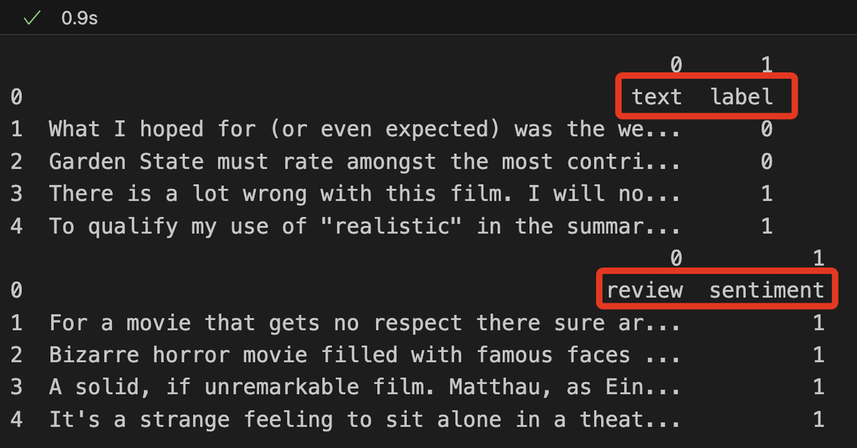
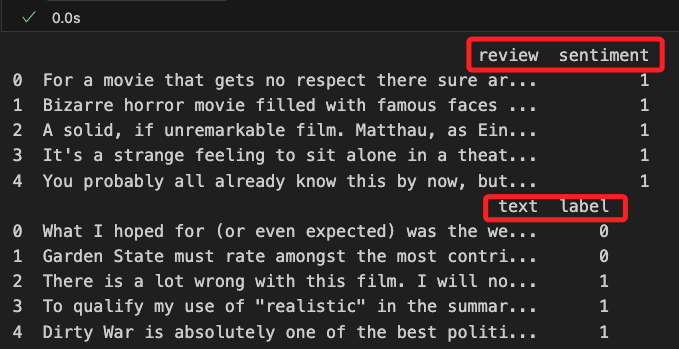
Commit on 2024-11-07 16:16:59

diff --git a/01_課程筆記/00_Lab/94020/Lab 4.1_Implementing Sentiment Analysis/01_官方範例/01_實作.md b/01_課程筆記/00_Lab/94020/Lab 4.1_Implementing Sentiment Analysis/01_官方範例/01_實作.md
@@ -538,8 +538,8 @@ _與範例數據集比較_
 4. 透過代碼觀察，結果顯示數據的內容與欄位不一樣，但格式是相同的，並且資料筆數 `50,000` 也相同。
 
     ```python
-    df = pd.read_csv('imdb_0.csv', header=0)
-    df
+    df_0 = pd.read_csv('imdb_0.csv', header=0)
+    df_0
     ```
 
     ![](images/img_04.png)
@@ -549,11 +549,8 @@ _與範例數據集比較_
 5. 列出兩個數據的欄位名稱，結果顯示官方數據集的欄位名稱是 `text` 和 `label`，而下載數據集的欄位是 `review`、`sentiment`。
 
     ```python
-    imdb_lab_df = pd.read_csv("imdb_0.csv", header=None)
-    imdb_generated_df = pd.read_csv("imdb.csv", header=None)
-
-    print(imdb_lab_df.head())
-    print(imdb_generated_df.head())
+    print(df.head())
+    print(df_0.head())
     ```
 
     ![](images/img_05.png)
@@ -563,17 +560,14 @@ _與範例數據集比較_
 6. 將下載數據集 `imdb.csv` 的欄位名稱修改與官方資料集一致。
 
     ```python
-    # 讀取自行下載並轉換的數據集
-    imdb_generated_df = pd.read_csv("imdb.csv")
-
     # 將欄位名稱重命名為官方格式
-    imdb_generated_df.rename(
+    df.rename(
         columns={"review": "text", "sentiment": "label"},
         inplace=True
     )
 
     # 將更改後的 DataFrame 儲存回 CSV
-    imdb_generated_df.to_csv("imdb.csv", index=False)
+    df.to_csv("imdb.csv", index=False)
 
     print("欄位名稱已修改為與官方一致，並重新儲存為 'imdb.csv'。")
 
@@ -589,23 +583,20 @@ _與範例數據集比較_
 7. 比對數據，提取自行下載的數據集前五筆進行查詢，比對該筆數據是否存在於官方資料集中，並明確指出是資料集的哪一筆；此步驟用已確認是否僅僅是排序問題。
 
     ```python
-    import pandas as pd
-
-    # 讀取兩個數據集
-    imdb_generated_df = pd.read_csv("imdb.csv")
-    imdb_lab_df = pd.read_csv("imdb_0.csv")
+    # 重新讀取更新後的數據集
+    df = pd.read_csv("imdb.csv")
 
     # 取出自行下載的數據集前五筆資料
-    first_five_rows = imdb_generated_df.head(5)
+    first_five_rows = df.head(5)
 
     # 建立一個空的列表來儲存匹配結果
     matches = []
 
     # 遍歷前五筆資料，逐筆與官方數據集比對
     for index, row in first_five_rows.iterrows():
-        match = imdb_lab_df[
-            (imdb_lab_df['text'] == row['text']) & 
-            (imdb_lab_df['label'] == row['label'])
+        match = df_0[
+            (df_0['text'] == row['text']) & 
+            (df_0['label'] == row['label'])
         ]
         # 如果匹配到數據，將結果加入列表
         if not match.empty:
